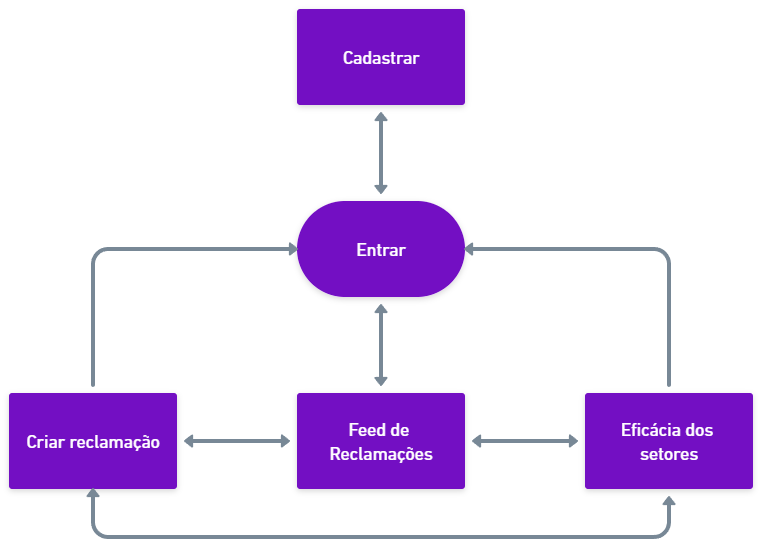
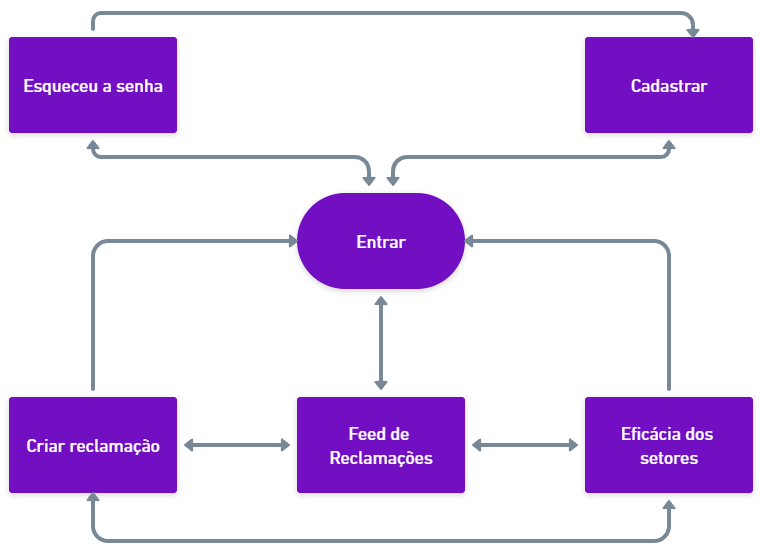
alterações na documentação do projeto

diff --git a/src/index.html b/src/index.html
@@ -16,6 +16,11 @@
     <link rel="stylesheet" href="./styles/homepage.css" />
   </head>
   <body>
+    <h3>
+      Essa página serve somente para facilitar a navegação entre as páginas da
+      aplicação, posteriormente será removida ou substituida por uma landing
+      page
+    </h3>
     <b>Links das páginas:</b>
     <a href="./pages/feed-de-reclamacoes/index.html">Feed de Reclamações</a>
     <a href="./pages/desempenho-dos-setores/index.html"

diff --git a/docs/04-Projeto de Interface.md b/docs/04-Projeto de Interface.md
@@ -4,42 +4,50 @@ Estamos dando foco a diversas questões durante a criação da interface do sist
 
 ## Fluxo do Usuário
 
-O fluxograma representado na Figura 1 mostra o fluxo de interação do usuário pelas telas do
+O fluxograma representado na Figura 4 mostra o fluxo de interação do usuário pelas telas do
 sistema. Cada um dos elementos deste fluxo é detalhado na seção de Wireframes que se segue.
 
-| ![Figura 1 - Fluxo do usuário](./img/fluxo-do-usuario.png "Figura 2")
+| ![Figura 4 - Fluxo do usuário](./img/fluxo-do-usuario.png "Figura 4")
 |:--:| 
-| *Figura 1 - Fluxo do usuário* |
+| *Figura 4 - Fluxo do usuário* |
 
 ## Wireframes
 
 Conforme fluxo de telas do projeto, apresentado no item anterior, as telas do sistema são
 apresentadas em detalhes nos itens que se seguem. As telas do sistema apresentam uma
-estrutura comum que é apresentada na Figura 2. Nesta estrutura, existem 2 grandes blocos,
+estrutura comum que é apresentada na Figura 5. Nesta estrutura, existem 2 grandes blocos,
 descritos a seguir. São eles:
 
 - Cabeçalho - local onde são dispostos elementos fixos de identidade (logo), navegação principal do site (menu da aplicação), barra de busca, ícone do usuário logado e o botão para efetuar o logout;
 - Conteúdo - apresenta o conteúdo da tela em questão;
 
-| ![Figura 2 - Estrutura padrão do site](./img/wireframe-estrutura-padrao.png "Figura 2")
+| ![Figura 5 - Estrutura padrão do site](./img/wireframe-estrutura-padrao.png "Figura 5")
 |:--:| 
-| *Figura 2 - Estrutura padrão do site* |
+| *Figura 5 - Estrutura padrão do site* |
 
 ### Tela - Login
 
 A tela de login é onde o usuário pode entrar em sua conta ou ser redirecionado para criar uma, para posteriormente utilizar a aplicação.
 
-| ![Figura 3 - Tela para o Login do Usuário](./img/tela-login.png "Figura 3")
+| ![Figura 6 - Tela para o Login do Usuário](./img/tela-login.png "Figura 6")
 |:--:| 
-| *Figura 3 - Tela para o Login do Usuário* |
+| *Figura 6 - Tela para o Login do Usuário* |
+
+### Tela - Recuperar senha
+
+A tela de recuperação de senha é onde o usuário pode redefinir a sua senha.
+
+| ![Figura 7 - Tela para recuperação de senha](./img/tela-recuperar-senha.png "Figura 7")
+|:--:| 
+| *Figura 7 - Tela para recuperação de senha* |
 
 ### Tela - Criar conta
 
 A tela criar conta é onde o usuário pode criar sua conta ou ser redirecionado para entrar em uma, para posteriormente utilizar a aplicação.
 
-| ![Figura 4 - Tela para o Cadastro do Usuário](./img/tela-cadastrar.png "Figura 4")
+| ![Figura 8 - Tela para o Cadastro do Usuário](./img/tela-cadastrar.png "Figura 8")
 |:--:| 
-| *Figura 4 - Tela para o Cadastro do Usuário* |
+| *Figura 8 - Tela para o Cadastro do Usuário* |
 
 ### Tela - Feed de Reclamações
 
@@ -51,22 +59,22 @@ A tela de feed de reclamações exibe todas as reclamações criadas pelos usuá
   - Ver apenas as próprias reclamações;
   - Ver as reclamações salvas.
 
-| ![Figura 5 - Tela de Feed de Reclamações](./img/tela-feed-reclamacoes.png "Figura 5")
+| ![Figura 9 - Tela de Feed de Reclamações](./img/tela-feed-reclamacoes.png "Figura 9")
 |:--:| 
-| *Figura 5 - Tela de Feed de Reclamações* |
+| *Figura 9 - Tela de Feed de Reclamações* |
 
 ### Tela - Criar uma reclamação
 
 A tela de criação de reclamações é onde o usuário pode registrar uma reclamação descrevendo o problema, anexando imagens relevantes, selecionando o setor responsável pela reclamação e informando o bairro onde ocorre.
 
-| ![Figura 6 - Tela para Criar uma reclamação](./img/tela-criar-reclamacao.png "Figura 6")
+| ![Figura 10 - Tela para Criar uma reclamação](./img/tela-criar-reclamacao.png "Figura 10")
 |:--:| 
-| *Figura 6 - Tela para Criar uma reclamação* |
+| *Figura 10 - Tela para Criar uma reclamação* |
 
 ### Tela - Eficiência dos Setores Reclamados
 
 A tela de eficiência dos setores reclamados é onde o usuário pode verificar a eficácia de cada setor onde as reclamações foram registradas.
 
-| ![Figura 7 - Tela de Eficiência dos Setores Reclamados](./img/tela-ranking-setores-reclamados.png "Figura 7")
+| ![Figura 11 - Tela de Eficiência dos Setores Reclamados](./img/tela-ranking-setores-reclamados.png "Figura 11")
 |:--:| 
-| *Figura 7 - Tela de Eficiência dos Setores Reclamados* |
+| *Figura 11 - Tela de Eficiência dos Setores Reclamados* |

diff --git a/docs/03-Metodologia.md b/docs/03-Metodologia.md
@@ -38,12 +38,11 @@ Para organização e distribuição das tarefas do projeto, a equipe está utili
   * Done: nesta lista são colocadas as tarefas que passaram pelos testes e controle de qualidade e estão prontos para ser entregues ao usuário. Não há mais edições ou     revisões necessárias, ele está agendado e pronto para a ação.
 
 O quadro kanban do grupo desenvolvido na ferramenta de gerenciamento de projetos está
-disponível através da URL https://github.com/orgs/ICEI-PUC-Minas-PMV-ADS/projects/311/views/1 e é apresentado, no estado atual, na Figura 1.
-
+disponível através da URL https://github.com/orgs/ICEI-PUC-Minas-PMV-ADS/projects/311/views/1.
 
 | ![Figura 1 - Quadro Scrum do Projeto](./img/sprint-0.png "Figura 1")
 |:--:| 
-| *Figura 1 - Quadro Scrum do Projeto* |
+| *Figura 1 - Quadro Scrum referente a primeira etapa do projeto* |
 
 Na primeira etapa do projeto foi realizado um levantamento dos principais problemas relacionados à gestão pública a fim de realizar uma melhor alocação dos recursos com vistas à uma melhor satisfação da população. 
 
@@ -53,3 +52,21 @@ Os detalhes levantados nesse processo foram organizados na forma de personas e h
 Para gerenciar todo o processo decidiu-se criar um site com ferramentas que possibilitem a interação entre usuários e o setor público responsável com vistas à solução mais adequada ao problema. 
 
 Para isso foram estabelecidos requisitos funcionais e não funcionais com suas respectivas prioridades, além das restrições que limitam a execução deste projeto e que se configuram como obrigações claras para o seu desenvolvimento.
+
+| ![Figura 2 - Quadro Scrum do Projeto](./img/sprint-1.png "Figura 2")
+|:--:| 
+| *Figura 2 - Quadro Scrum referente a segunda etapa do projeto* |
+
+Na segunda etapa, estabelecemos a metodologia a ser adotada no projeto, incluindo a localização de nosso repositório, documentos do projeto, projeto de interface e wireframes, bem como a ferramenta a ser usada para gerenciar o projeto.
+
+Ademais, determinamos os papéis de cada membro da equipe dentro da metodologia Scrum, além de definir os padrões a serem aplicados no gerenciamento do projeto no Github Projet.
+
+Elaboramos o projeto de interface, definindo o fluxo do usuário no uso da aplicação, bem como criando todos os protótipos das telas do sistema.
+
+| ![Figura 3 - Quadro Scrum do Projeto](./img/sprint-2.png "Figura 3")
+|:--:| 
+| *Figura 3 - Quadro Scrum referente a terceira etapa do projeto* |
+
+Na terceira etapa, criamos o template do site, que estabelece o layout padrão a ser utilizado em todas as páginas, juntamente com a definição da identidade visual e da iconografia.
+
+Além disso, demos início ao desenvolvimento das páginas "feed de reclamações", "login" e "recuperar senha", criando toda a estrutura HTML e CSS.

diff --git a/docs/06-Template padrão do Site.md b/docs/06-Template padrão do Site.md
@@ -1,12 +1,7 @@
 # Template padrão do site
 
-<span style="color:red">Pré-requisitos: <a href="2-Especificação do Projeto.md"> Especificação do Projeto</a></span>, <a href="3-Projeto de Interface.md"> Projeto de Interface</a>, <a href="4-Metodologia.md"> Metodologia</a>
+O template do site e todos os protótipos foram definidos anteriormente na seção de <a href="https://github.com/ICEI-PUC-Minas-PMV-ADS/pmv-ads-2023-1-e1-proj-web-t1-registro-de-reclamacoes/blob/main/docs/04-Projeto%20de%20Interface.md#wireframes">Projeto de Interface: Wireframes</a>
 
-Layout padrão do site (HTML e CSS) que será utilizado em todas as páginas com a definição de identidade visual, aspectos de responsividade e iconografia.
+Para iconografia utilizamos a biblioteca <a href="https://phosphoricons.com/">phosphor-icons</a>
 
-> **Links Úteis**:
->
-> - [CSS Website Layout (W3Schools)](https://www.w3schools.com/css/css_website_layout.asp)
-> - [Website Page Layouts](http://www.cellbiol.com/bioinformatics_web_development/chapter-3-your-first-web-page-learning-html-and-css/website-page-layouts/)
-> - [Perfect Liquid Layout](https://matthewjamestaylor.com/perfect-liquid-layouts)
-> - [How and Why Icons Improve Your Web Design](https://usabilla.com/blog/how-and-why-icons-improve-you-web-design/)
+A responsividade foi definida usando media query, grid e flex-box.

diff --git a/docs/02-Especificação do Projeto.md b/docs/02-Especificação do Projeto.md
@@ -35,8 +35,7 @@ As personas a seguir apresentadas foram levantadas durante o processo de entrevi
 
 ## Histórias de Usuários
 
-A partir da análise das personas alvo para o projeto e de análise de requisitos funcionais e não funcionais, as histórias de usuários podem ser visualizadas a partir do Board disponibilizado pelo próprio Github. Para acessá-las, [siga este link](https://github.com/orgs/ICEI-PUC-Minas-PMV-ADS/projects/311/views/1).
-
+Foram registradas as seguintes histórias de usuário após compreender o cotidiano das personas identificadas para o projeto.
 
 | Eu como [PERSONA]...     | ... quero/desejo [O QUE]...                                        | ... para [POR QUE ] ..                                                                              |
 | ------------------------ | ------------------------------------------------------------------ | --------------------------------------------------------------------------------------------------- |
